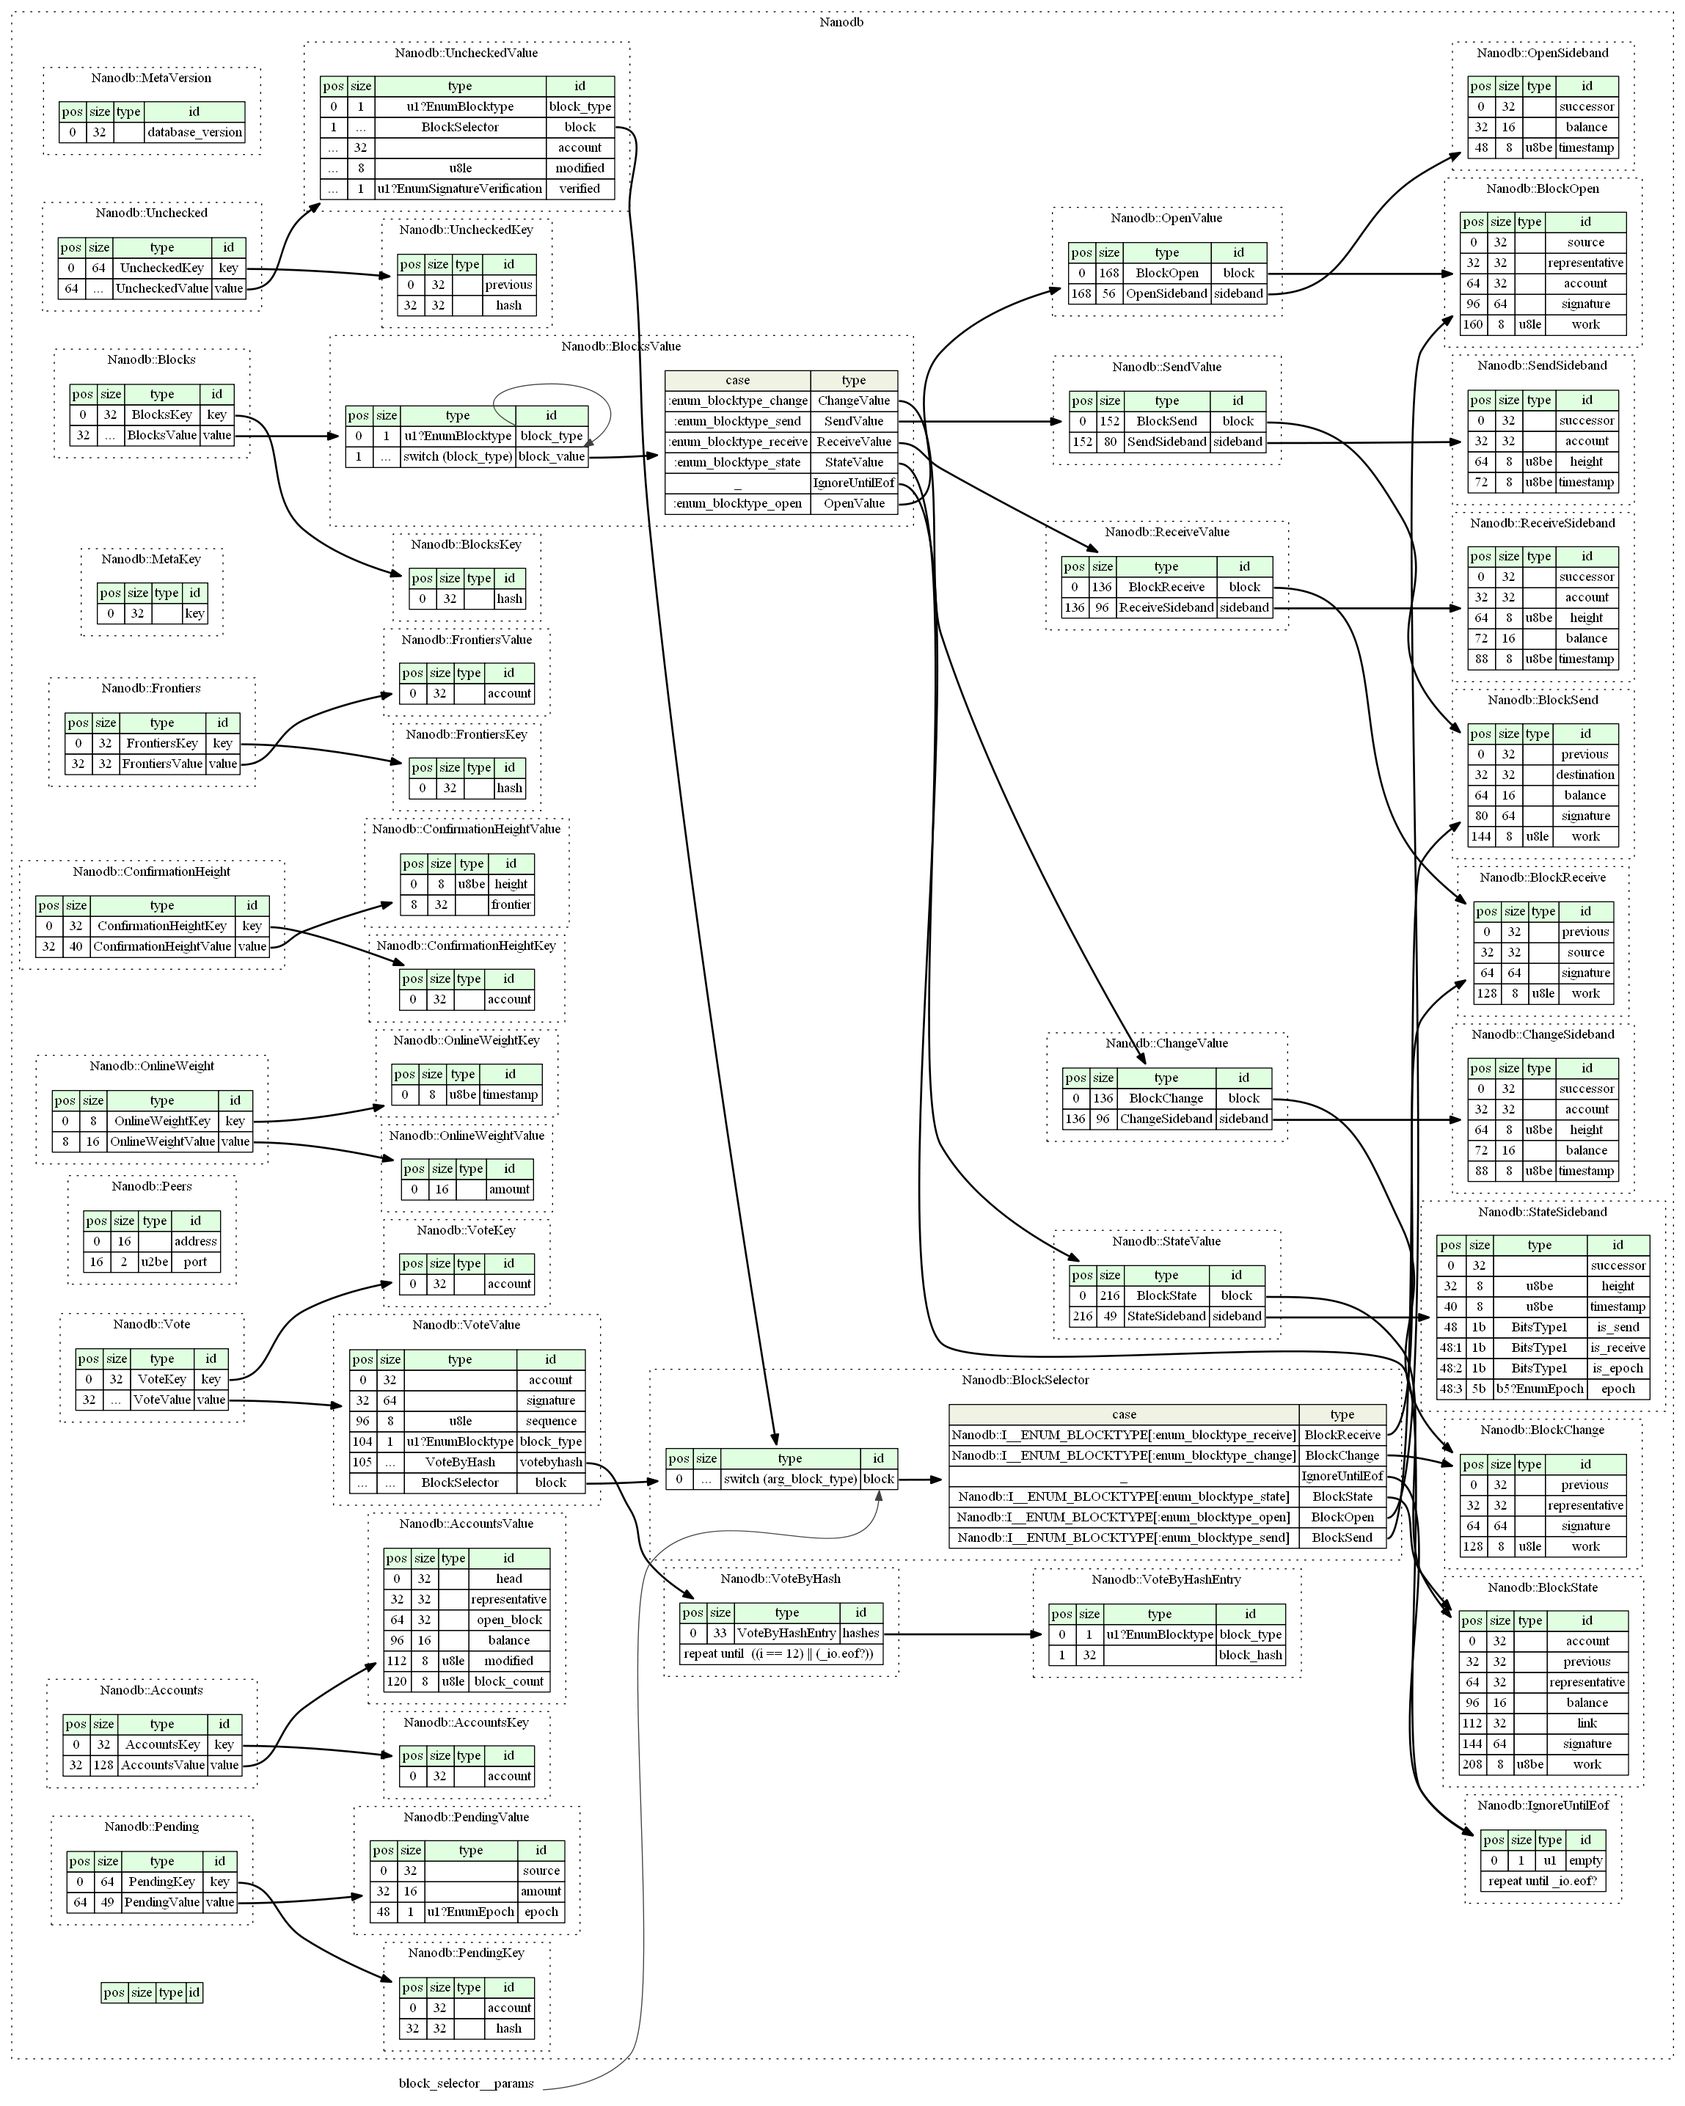
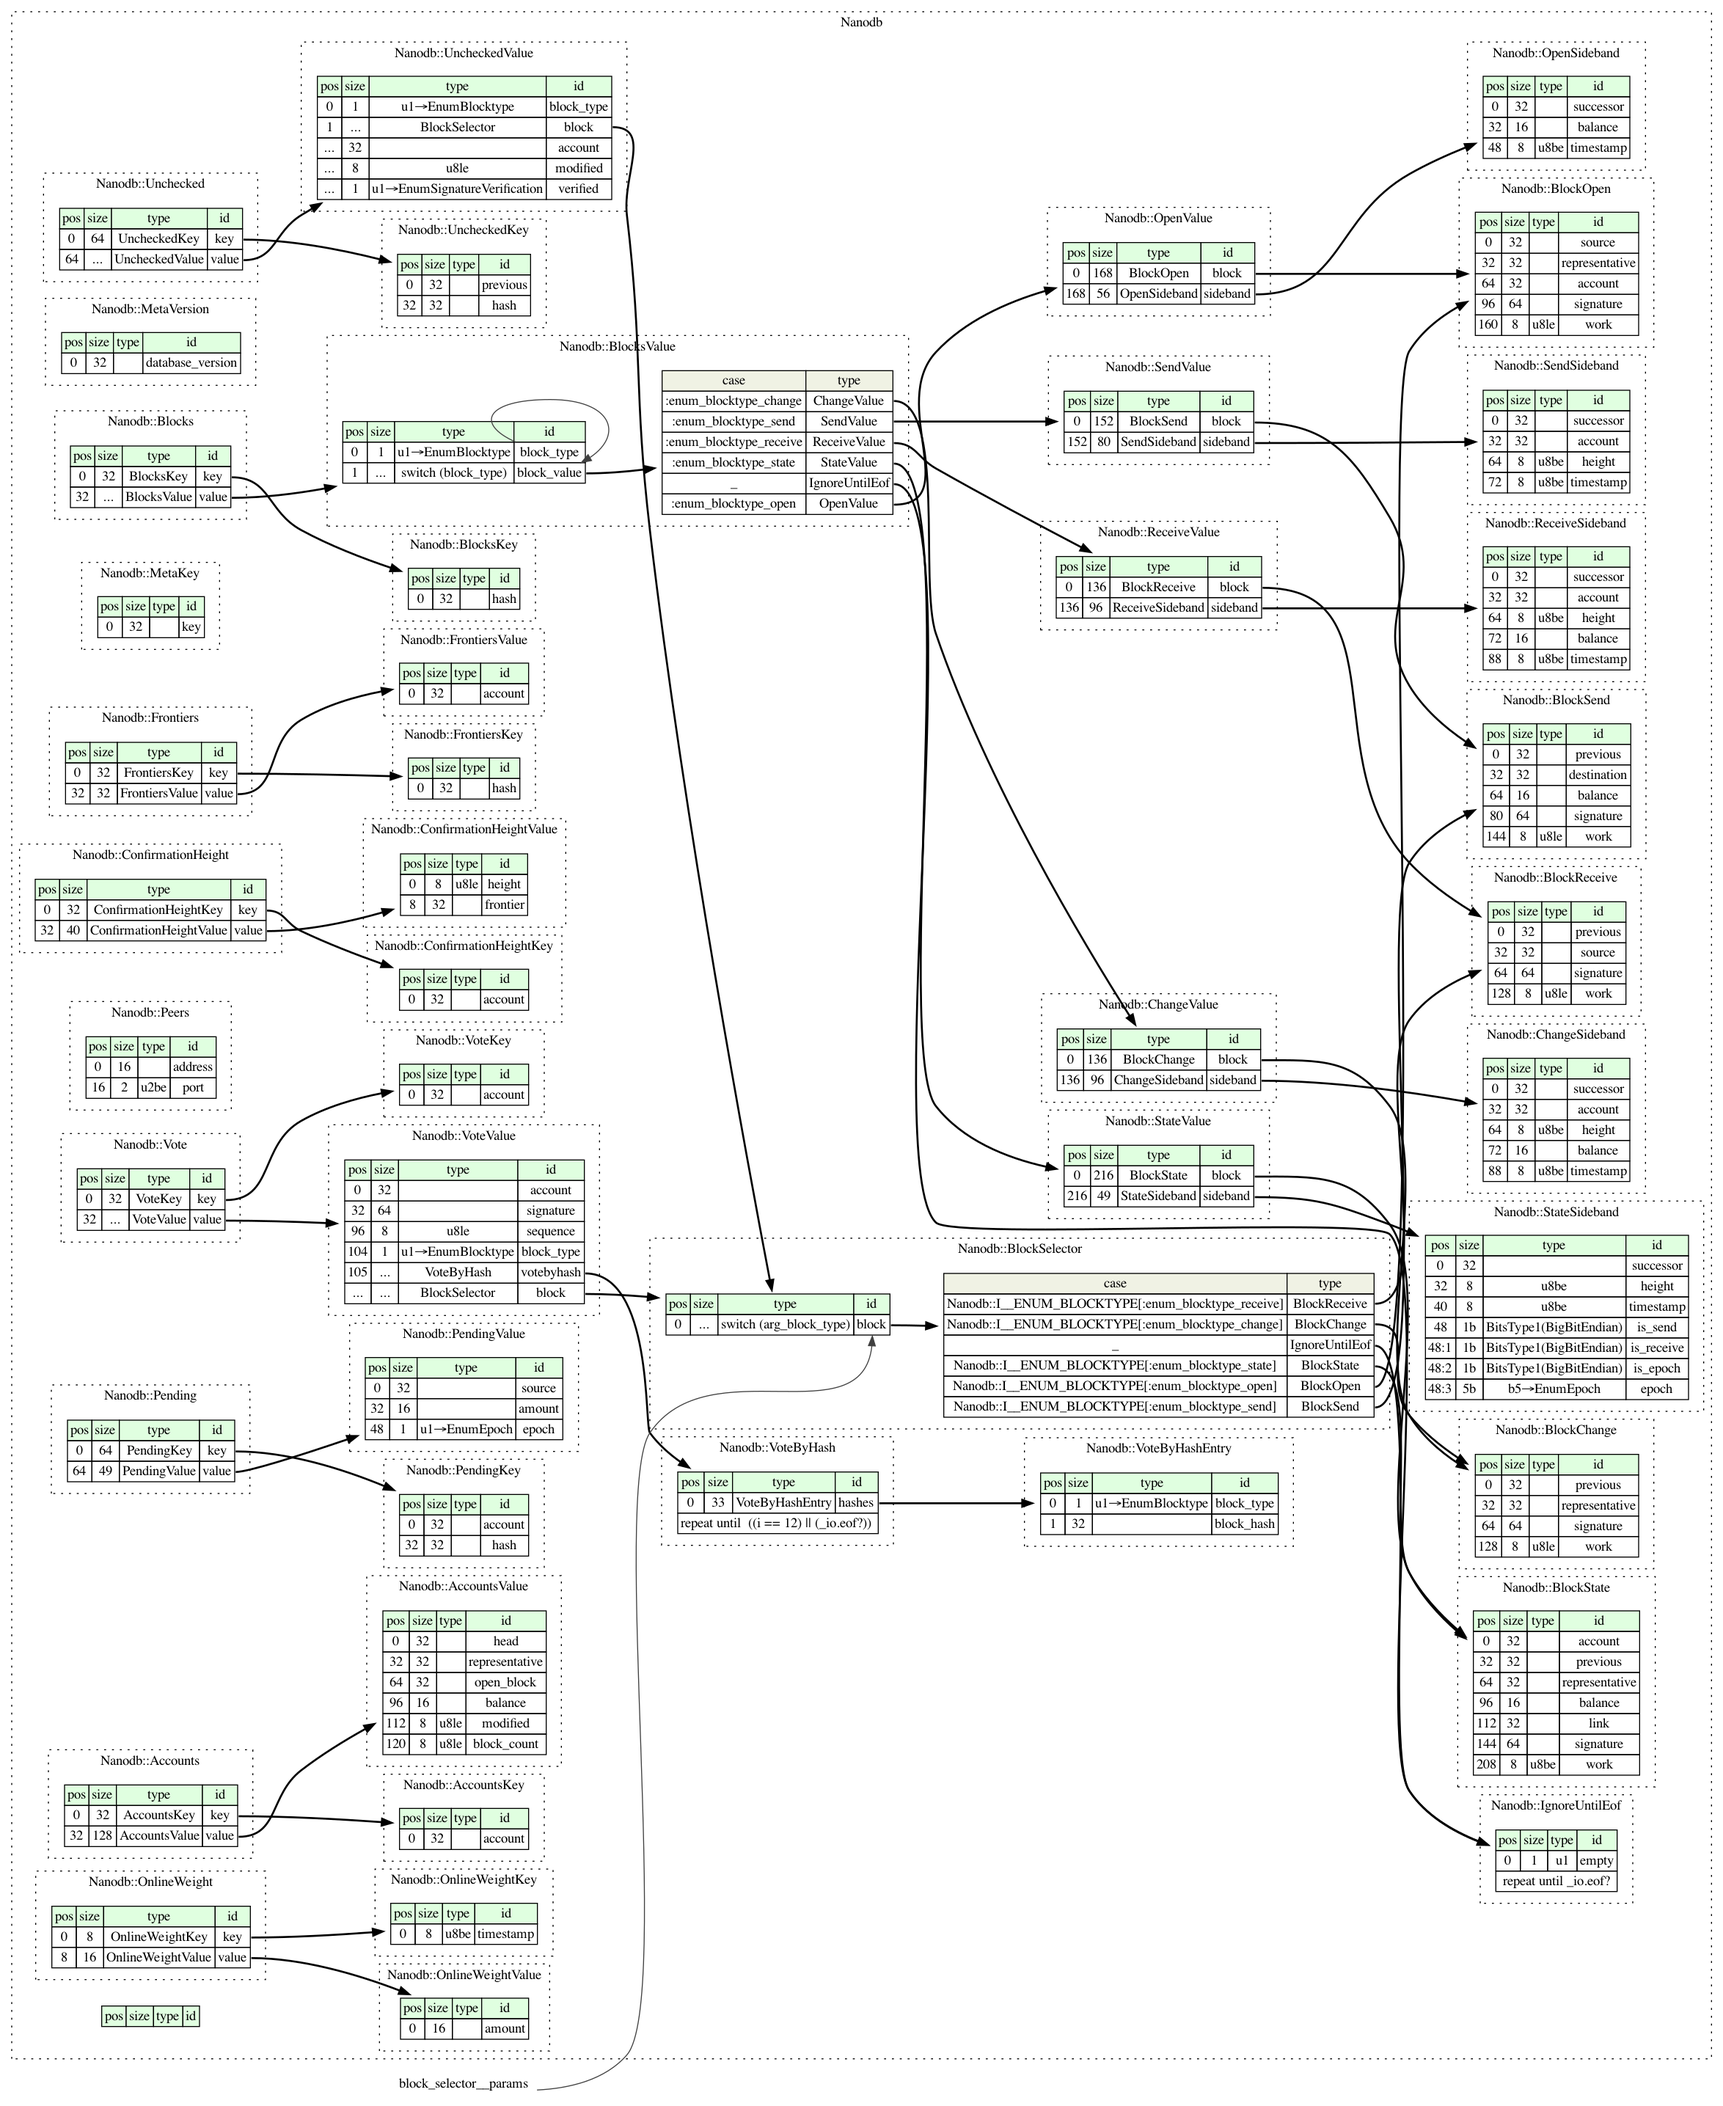
fix confirmation height value endianness

diff --git a/sample/nanodb.py b/sample/nanodb.py
@@ -560,7 +560,7 @@ class Nanodb(KaitaiStruct):
             self._read()
 
         def _read(self):
-            self.height = self._io.read_u8be()
+            self.height = self._io.read_u8le()
             self.frontier = self._io.read_bytes(32)
 
 
@@ -756,6 +756,3 @@ class Nanodb(KaitaiStruct):
         def _read(self):
             self.key = self._root.SendKey(self._io, self, self._root)
             self.value = self._root.SendValue(self._io, self, self._root)
-
-
-
